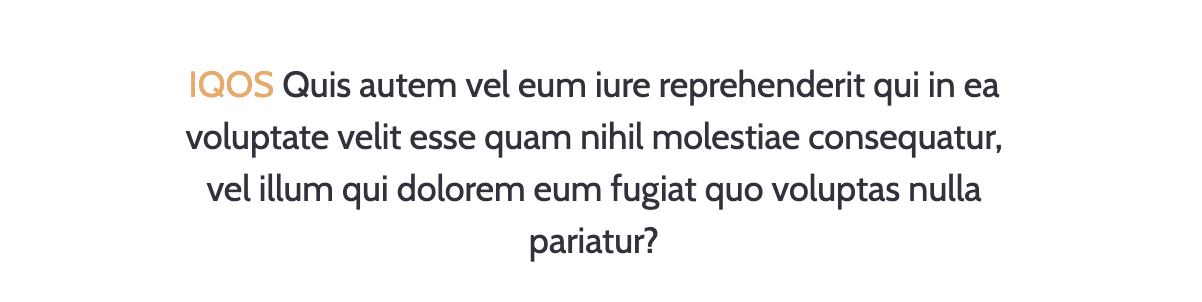
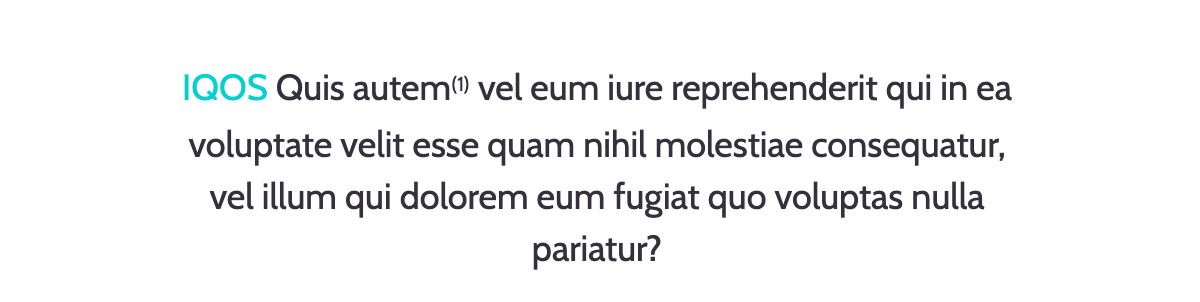
.

diff --git a/app/cli/includes/predefined_blocks.php b/app/cli/includes/predefined_blocks.php
@@ -1266,7 +1266,7 @@ $libraryBlocks['p300_BW'] ='
             "color_bkg"     : "transparent",
             "margin_top"    : "50",
             "margin_bottom" : "50",
-            "content"       : "<span style=\"color:#e4ab68;\">IQOS</span> Quis autem vel eum iure reprehenderit qui in ea voluptate velit esse quam nihil molestiae consequatur, vel illum qui dolorem eum fugiat quo voluptas nulla pariatur?",
+            "content"       : "<span style=\"color:#00d1d2;\">IQOS</span> Quis autem<span style=\"font-size:12px;\"><sup>(1)</sup></span> vel eum iure reprehenderit qui in ea voluptate velit esse quam nihil molestiae consequatur, vel illum qui dolorem eum fugiat quo voluptas nulla pariatur?",
             "this"          : "TXT"
         },';
 $libraryBlocks['p700_BW'] ='

diff --git a/Manual de Produccion Email/3_5_componentes_email.md b/Manual de Produccion Email/3_5_componentes_email.md
@@ -97,7 +97,7 @@ Assets gráficos requeridos:
 | __color_bkg__      | Color del background en formato hexadecimal. El default es "transparent" |
 | __margin_top__     | El tamaño del margen superior en pixeles. El default es "70" |
 | __margin_bottom__  | El tamaño del margen inferior en pixeles. El default es "70" |
-| __greeting__       | __No cambiar este valor__ El texto del saludo. El default es "Hola, %%first_name%%", pero si se desea usar colores diferentes para el saludo y el nombre, se puede agregar HTML. Por ejemplo:<br> "\<span style=\"color:#e4ab68;\"\>Hola,\</span\> %%first_name%%" <br>Pone el color #e4ab68 para el saludo, mientras que el nombre tiene el color definido en "color_greeting".|
+| __greeting__       | __No cambiar este valor__. El texto del saludo. El default es "Hola, %%first_name%%", pero si se desea usar colores diferentes para el saludo y el nombre, se puede agregar HTML. Por ejemplo:<br> "\<span style=\"color:#e4ab68;\"\>Hola,\</span\> %%first_name%%" <br>Pone el color #e4ab68 para el saludo, mientras que el nombre tiene el color definido en "color_greeting".|
 | __this__           | ___No usada por la plantilla___. Area para comentarios, no es necesario modificar nada aquí. |
 
 
@@ -179,14 +179,14 @@ Assets gráficos requeridos:
             "color_bkg"     : "transparent",
             "margin_top"    : "50",
             "margin_bottom" : "50",
-            "content"       : "<span style=\"color:#e4ab68;\">IQOS</span> Quis autem vel eum iure reprehenderit qui in ea voluptate velit esse quam nihil molestiae consequatur, vel illum qui dolorem eum fugiat quo voluptas nulla pariatur?",
+            "content"       : "<span style=\"color:#00d1d2;\">IQOS</span> Quis autem<span style=\"font-size:12px;\"><sup>(1)</sup></span> vel eum iure reprehenderit qui in ea voluptate velit esse quam nihil molestiae consequatur, vel illum qui dolorem eum fugiat quo voluptas nulla pariatur?",
             "this"          : "TXT"
         },
 
 \
 **RESULTADO**
 
-![p](https://i.imgur.com/CR2bDOI.png)
+![p](https://i.imgur.com/QzO7OyZ.png)
 
 
 \
@@ -198,14 +198,14 @@ Assets gráficos requeridos:
 | __font__          | __No cambiar este valor__. La plantilla TWIG usada para crear los correos de Philip Morris usa dos tipografías: "Cabin" para el texto normal y 'Noto Sans' para el footer. |
 | __fontweight__    | "300" para texto normal o "700" para texto en negritas. El valor predefinido es "300".|
 | __fontsize__      | Tamaño en pixeles de la tipografía. El valor predefinido es "18".|
-| __height__        | Tamaño en pixeles de la línea. El valor predefinido es "26".|
+| __height__        | Tamaño en pixeles de la altura de la línea. El valor predefinido es "26".|
 | __width__         | El ancho en porcentaje del párrafo de texto. El default es "70%".|
 | __align__         | La alineación del texto dentro del párrafo. Los posibles valores son "center", "right", "left" y "justify".|
 | __color__         | Color del texto en formato hexadecimal. El valor predefinido es "#34303d".|
 | __color_bkg__     | Color del background en formato hexadecimal. El valor predefinido es "transparent".|
 | __margin_top__    | El tamaño del margen superior en pixeles. El valor predefinido es "50".|
 | __margin_bottom__ | El tamaño del margen inferior en pixeles. El valor predefinido es "50".|
-| __content__       | El texto a mostrar. De ser necesario, puede incluirse HTML para cambiar los colores, poner supereíndices o cambiar el tamaño de alguna parte del texto. El valor predefinido muestra cómo agregar HTML.|
+| __content__       | El texto a mostrar. De ser necesario, puede incluirse HTML para cambiar los colores, poner superíndices o cambiar el tamaño de alguna parte del texto. El valor predefinido muestra cómo agregar HTML.|
 | __this__          |  ___No usada por la plantilla___. Se usa para comentarios, puede dejarse en blanco. |
 
 
